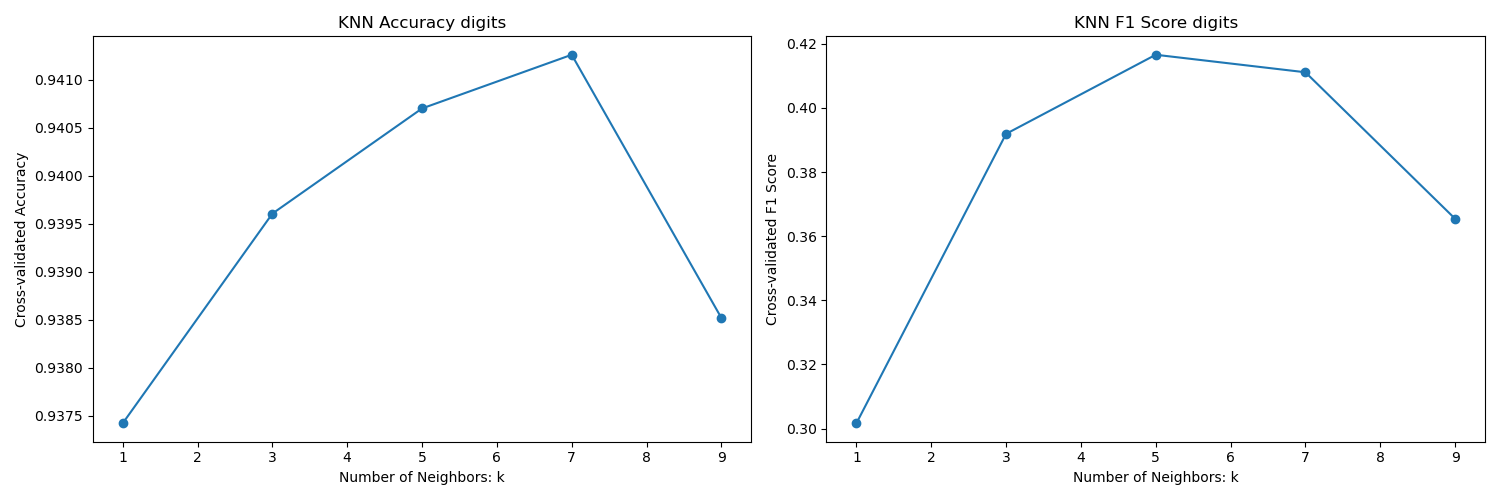
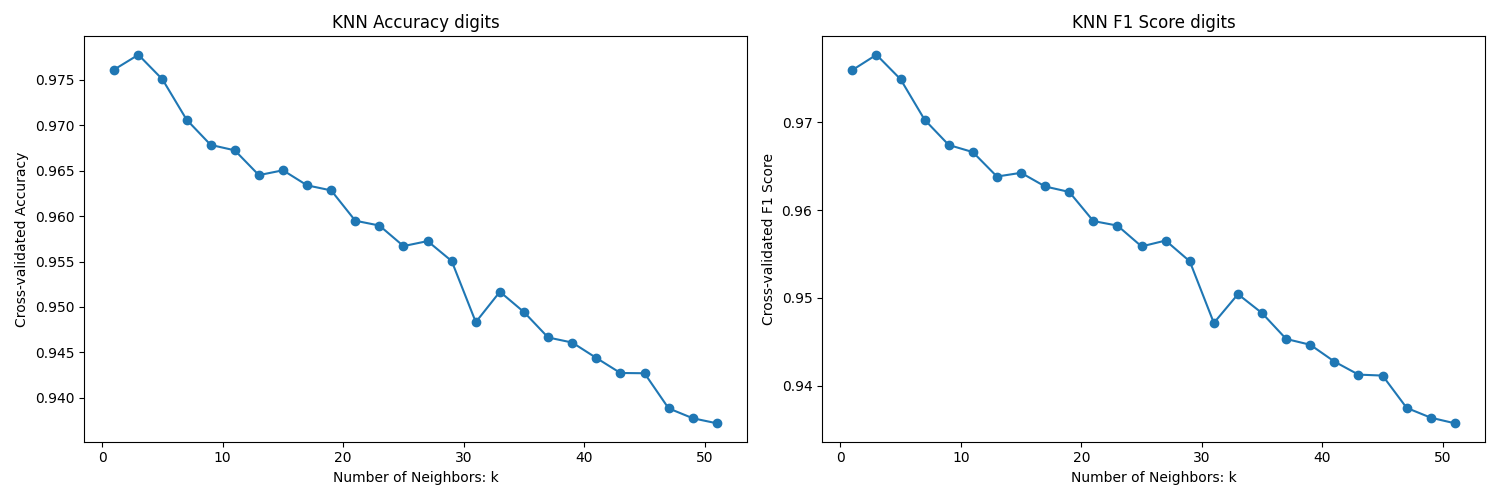
fix reading digits from sklearn, reduce k parameter knn

diff --git a/utils.py b/utils.py
@@ -206,14 +206,11 @@ def load_data(filename, encode=False):
                 data.append(features)
 
         # Remove name attributes
-        data = np.delete(data, 2, axis=1)
+        data = np.delete(data, 1, axis=1)
         if encode:
-            data = one_hot_encode(data, [1, 2])
+            data = one_hot_encode(data, [1])
     elif filename == 'digits':
-        digits = load_digits()
-        data = digits.data
-        data = [line[:-1] for line in data]
-        label = [line[-1] for line in data]
+        data, label = load_digits(return_X_y=True)
     else:
         with open(f"datasets/{filename}", "r") as file:
             csvFile = csv.reader(file)

diff --git a/knn.py b/knn.py
@@ -75,7 +75,7 @@ def main(filename, is_normalize=False):
 
     X, y = load_data(filename, encode=True)
     k = 10
-    k_values = range(1, 52, 2)
+    k_values = range(1, 42, 2)
     results = parallel_knn(k_values, X, y, k, is_normalize)
 
     ks = list(k_values)
